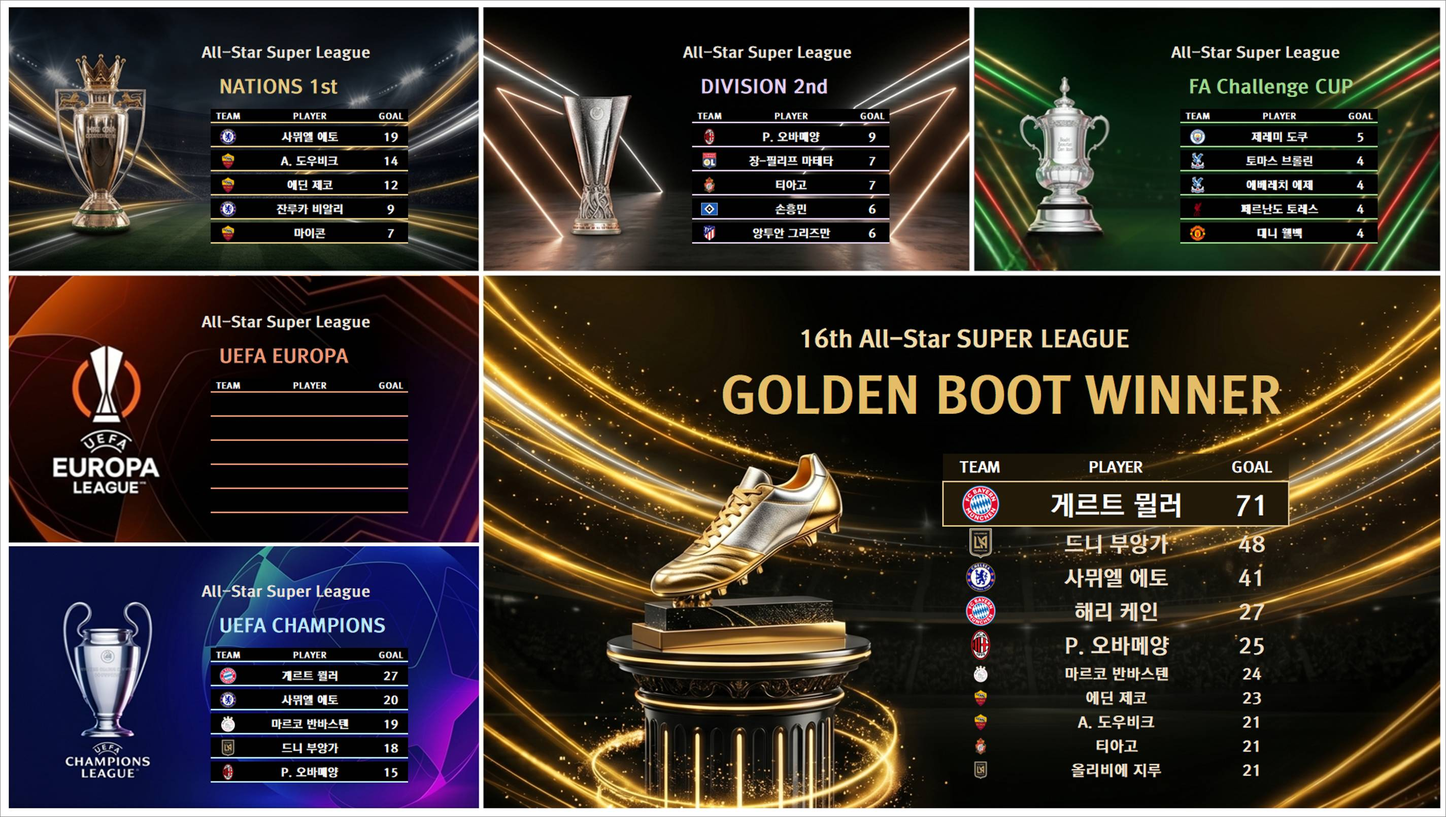
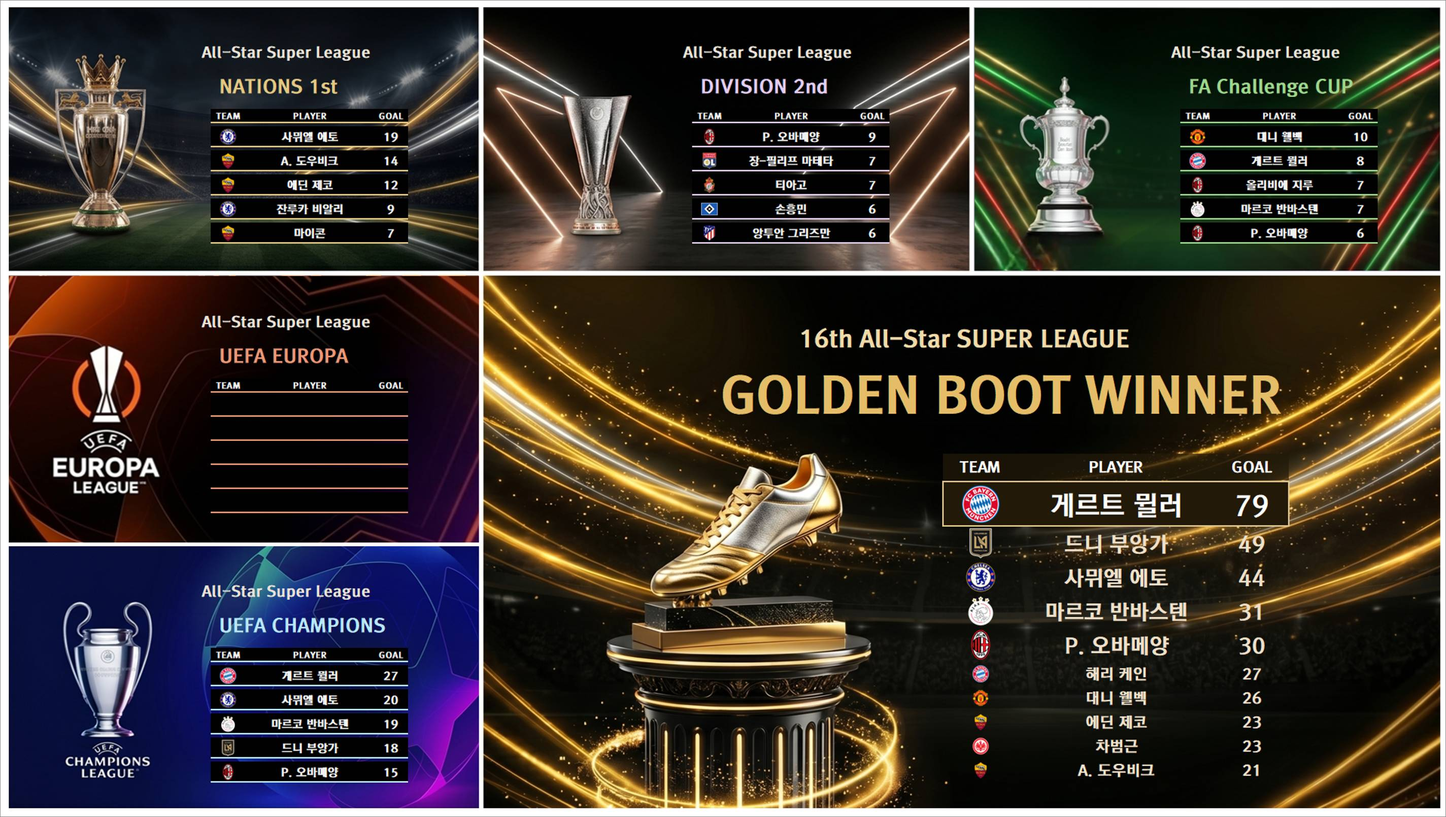
Optimize: 08:47:17

diff --git a/index.html b/index.html
@@ -71,10 +71,10 @@
         <div class="card"><h2>🥇 1부리그</h2><img src="https://i.ibb.co/fVCPYmVt/abc3e54febcb.jpg" alt="1부 리그" loading="lazy"></div>
         <div class="card"><h2>🥈 2부리그</h2><img src="https://i.ibb.co/VYvh3KMy/031eb354fedc.jpg" alt="2부 리그" loading="lazy"></div>
         <div class="card"><h2>🥉 3부리그</h2><img src="https://i.ibb.co/pcF7dnZ/01d2f99102c4.jpg" alt="3부 리그" loading="lazy"></div>
-        <div class="card"><h2>🏅 FA컵 32·16강</h2><img src="https://i.ibb.co/jPc6zdcn/7d28a1d92290.jpg" alt="FA컵" loading="lazy"></div>
-        <div class="card"><h2>🏅 FA컵 8강·4강·결승</h2><img src="https://i.ibb.co/PGZW1WNR/d62ef5ea4f0e.jpg" alt="FA컵" loading="lazy"></div>
+        <div class="card"><h2>🏅 FA컵 32·16강</h2><img src="https://i.ibb.co/Mxt6R6YS/6325ec264e9c.jpg" alt="FA컵" loading="lazy"></div>
+        <div class="card"><h2>🏅 FA컵 8강·4강·결승</h2><img src="https://i.ibb.co/kVyCY5Z3/e07a391c7ebd.jpg" alt="FA컵" loading="lazy"></div>
         <div class="card"><h2>🌟 UCL GROUP</h2><img src="https://i.ibb.co/KcbPzXNS/4886de444da8.jpg" alt="UCL 조별" loading="lazy"></div>
-        <div class="card"><h2>⚽ GOLDEN BOOT</h2><img src="https://i.ibb.co/VcLKNv47/87a66235e3bf.jpg" alt="득점왕" loading="lazy"></div>
+        <div class="card"><h2>⚽ GOLDEN BOOT</h2><img src="https://i.ibb.co/ZsDJ1rM/cd729b78fd36.jpg" alt="득점왕" loading="lazy"></div>
         <div class="card"><h2>🎯 PLAYMAKER</h2><img src="https://i.ibb.co/xtxzXjBR/8ca74d07d556.jpg" alt="플레이메이커" loading="lazy"></div>
         <div class="card"><h2>🏆 UCL 토너먼트</h2><img src="https://i.ibb.co/GvkkJqyP/c7cae45958f8.jpg" alt="UCL 토너" loading="lazy"></div>
         <div class="card"><h2>🎖 UEL 토너먼트</h2><img src="https://i.ibb.co/xSMDpJWB/da8521f5354b.jpg" alt="UEL 토너" loading="lazy"></div>
